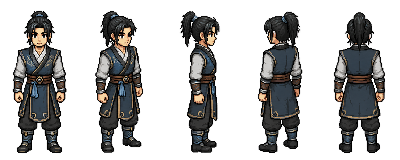
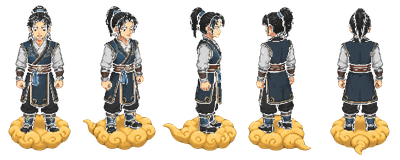
角色做上了筋斗云解决走路问题

diff --git a/packages/visual/src/content/PlayerAppearanceCatalog.ts b/packages/visual/src/content/PlayerAppearanceCatalog.ts
@@ -53,9 +53,9 @@ export const PLAYER_APPEARANCES: PlayerAppearanceDef[] = [
   {
     id: 'player3_iso_five_view_pseudo_walk',
     name: '白衣少侠等距五视图',
-    description: '基于 player003 五视图，使用引擎上下浮动伪行走。',
+    description: '基于 player3 新五视图，使用引擎上下浮动伪行走。',
     textureKey: 'player3_iso_five_view_pseudo_walk',
-    src: 'assets/characters/player3/player3_iso_five_view_pseudo_walk.png',
+    src: 'assets/characters/player3/player3_iso_five_view_pseudo_walk.png?v=20260507-new-view',
     frameWidth: 80,
     frameHeight: 160,
     frameCount: 5,
